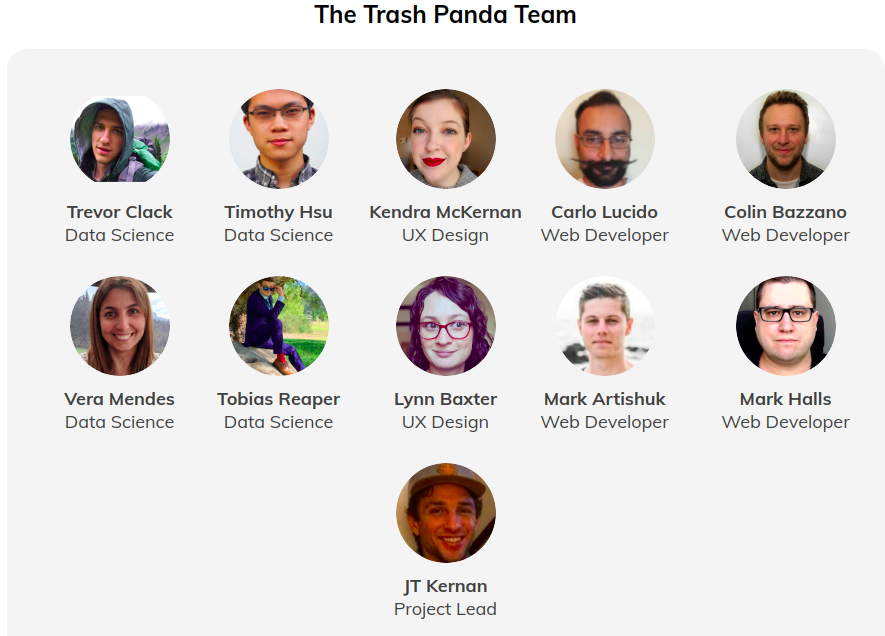
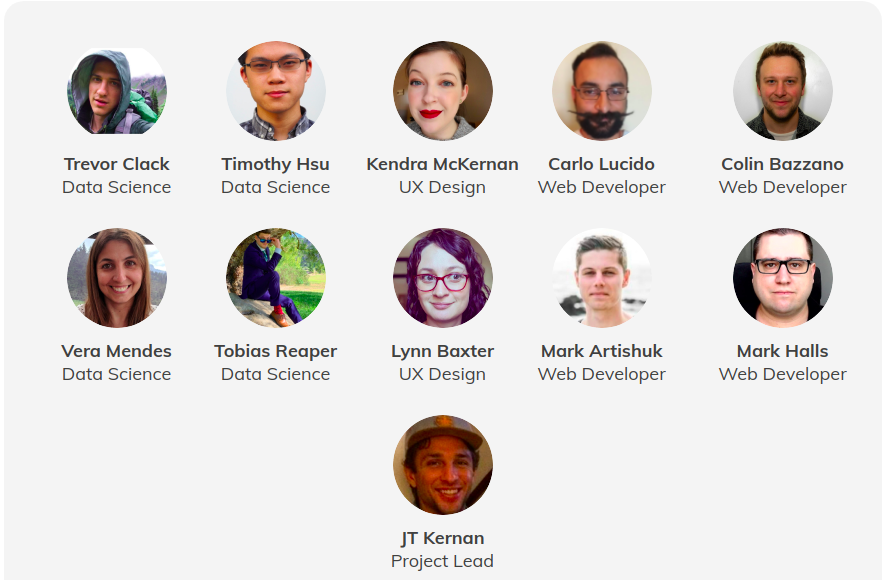
modified relative links (broken after jekyll 4.0.0 release). Edited image of trash panda team to remove title as it already exists in h2. Attempt to fix latex rendering for kramdown

diff --git a/_includes/scripts.html b/_includes/scripts.html
@@ -1,0 +1,3 @@
+<script type="text/javascript" async
+  src="https://cdn.mathjax.org/mathjax/latest/MathJax.js?config=TeX-MML-AM_CHTML">
+</script>

diff --git a/_posts/2019-10-05-mountain-project-scraping.md b/_posts/2019-10-05-mountain-project-scraping.md
@@ -13,9 +13,9 @@ You can see the notebook and data [here on Github](https://github.com/Tclack88/M
 
 ## Inspiration   
 
-Mountain Project has been on my mind recently because I've had an idea brewing in my head ever since my [Crossfit webscraping project]({{site.baseurl}}{% link _posts/2019-06-21-crossfit.md %}) which I made during a 2 week-long break in the middle of my 3 month climbing trip (precisely 1 week before my [laptop was stolen]({{ site.baseurl }}{% link _posts/2019-07-06-laptop-theft-mitigation.md %})). While on the trip I often found myself in areas without internet connection and I got annoyed typing the coordinates of the walls in my Garmin e-trex. (For those not familiar, the Mountain Project app has a "Directions" button so you can navigate to each wall area. It will open it up on your phone's GPS. The coordinates are saved on the app however, so when I press it, it tries to navigate to the coordinates. I can still see the coordinates though and manually plug them into my actual GPS).
+Mountain Project has been on my mind recently because I've had an idea brewing in my head ever since my [Crossfit webscraping project]({% link _posts/2019-06-21-crossfit.md %}) which I made during a 2 week-long break in the middle of my 3 month climbing trip (precisely 1 week before my [laptop was stolen]({% link _posts/2019-07-06-laptop-theft-mitigation.md %})). While on the trip I often found myself in areas without internet connection and I got annoyed typing the coordinates of the walls in my Garmin e-trex. (For those not familiar, the Mountain Project app has a "Directions" button so you can navigate to each wall area. It will open it up on your phone's GPS. The coordinates are saved on the app however, so when I press it, it tries to navigate to the coordinates. I can still see the coordinates though and manually plug them into my actual GPS).
 
-This unfortunately is not the project, but while working on it, I explored the website and had *another* idea. Could I scrape user data much like the Crossfit scraper? The answer is yes. With it I did a short analysis of trad climbers vs. sport climbers vs. boulderers [which you can read about here]({{site.baseurl}}{% link _posts/2019-09-27-climber-analysis.md %}). The more interesting part was **how** the data was scraped and that's the purpose of this post.
+This unfortunately is not the project, but while working on it, I explored the website and had *another* idea. Could I scrape user data much like the Crossfit scraper? The answer is yes. With it I did a short analysis of trad climbers vs. sport climbers vs. boulderers [which you can read about here]({% link _posts/2019-09-27-climber-analysis.md %}). The more interesting part was **how** the data was scraped and that's the purpose of this post.
 
 
 ## Code Overview

diff --git a/_posts/2019-06-30-spamfilter.md b/_posts/2019-06-30-spamfilter.md
@@ -21,7 +21,7 @@ Non-standard libraries needed:
 
 I took a Machine Learning course in which we wrote some "cookie-cutter" ML code; the skeleton of the code existed and we were completing subtasks, by filling in empty definitions. It was good for understanding the mathematical principles, but not practical in the sense that we really got an overall sense of what was going on from start to finish. So I went back later and reaccomplished the objective of the first project only this time around coding it all from scratch and with the benefit of using a python library to do the modeling. This is after all how I would expect to work on actual projects.
 
-In addition to reaccomplishing this task from scratch, I wanted it to be more useful and fun to use. The cookie-cutter code would run for a few minutes then output a numbers&mdash;a percentage representing the correct guesses as to whether or not these emails were spam. It made sense to rate the model but it was rather boring. I wanted to save the trained model and showcase it by testing it on a .txt file of an actual email or of something I wrote. I was part-way through writing it before my [laptop was stolen](https://tclack88.github.io/blog/code/2019/07/06/laptop-theft-mitigation.html) (#foreshadowing) and I had to rewrite it again. I have to say, I'm very proud of the outcome.
+In addition to reaccomplishing this task from scratch, I wanted it to be more useful and fun to use. The cookie-cutter code would run for a few minutes then output a numbers&mdash;a percentage representing the correct guesses as to whether or not these emails were spam. It made sense to rate the model but it was rather boring. I wanted to save the trained model and showcase it by testing it on a .txt file of an actual email or of something I wrote. I was part-way through writing it before my [laptop was stolen]({% link _posts/2019-07-06-laptop-theft-mitigation.md %}) (#foreshadowing) and I had to rewrite it again. I have to say, I'm very proud of the outcome.
 
 ## Code Overview
 

diff --git a/_posts/2020-03-06-trash-panda.md b/_posts/2020-03-06-trash-panda.md
@@ -7,7 +7,7 @@ categories: personal
 
 I'm very proud to present [The Trash Panda](https://www.thetrashpanda.com)
 
-This post will highlight what the app can do and the team
+This post will highlight what the app can do and the team. You can [read about some of the more technical aspects here]({% link _posts/2020-02-17-automated-bounding-boxes.md %})
 
 The Trash Panda is a Progressive Web App (PWA) designed to make proper recycling easy and quick. Recycling can be confusing in part due to the variation in local laws. Some areas accept plastic bags in their curbside bins while others do not. Most of us know (or should know) that paint is hazardous and can't be tossed in the trash, but it can be annoying to look it up. Even worse, individuals who over recycle, putting everything even remotely plastic in their recycle bin and so unintentionally make poor decisions.
 

diff --git a/_posts/2019-08-24-music-generation-fail.md b/_posts/2019-08-24-music-generation-fail.md
@@ -5,7 +5,7 @@ date:	2019-08-15 15:09:00 -0700
 categories: code personal
 ---
 
-UPDATE: I will retain this post as is for perpetuity, but 4 months since this post I've completed the project. You can [read the updated post here]({{site.baseurl}}/{% link _posts/2019-12-27-ai-music.md %})
+UPDATE: I will retain this post as is for perpetuity, but 4 months since this post I've completed the project. You can [read the updated post here]({% link _posts/2019-12-27-ai-music.md %})
 
 I'm not sure how to start this post. I'd like to present something firm and complete right now ("Check out what I managed to create!") but this isn't one of those successful completed projects; this is a failed attempt.
 

diff --git a/_posts/2019-12-27-ai-music.md b/_posts/2019-12-27-ai-music.md
@@ -14,7 +14,7 @@ non-standard dependencies:
 	pandas		-	sudo apt-get install python-pandas
 	numpy		-	pip3 install numpy
 
-You can read the [old post]({{site.baseurl}}{% link _posts/2019-08-24-music-generation-fail.md %}) for a bit of self-deprecation.
+You can read the [old post]({% link _posts/2019-08-24-music-generation-fail.md %}) for a bit of self-deprecation.
 
 ## Inspiration
 I saw this a long time ago:
